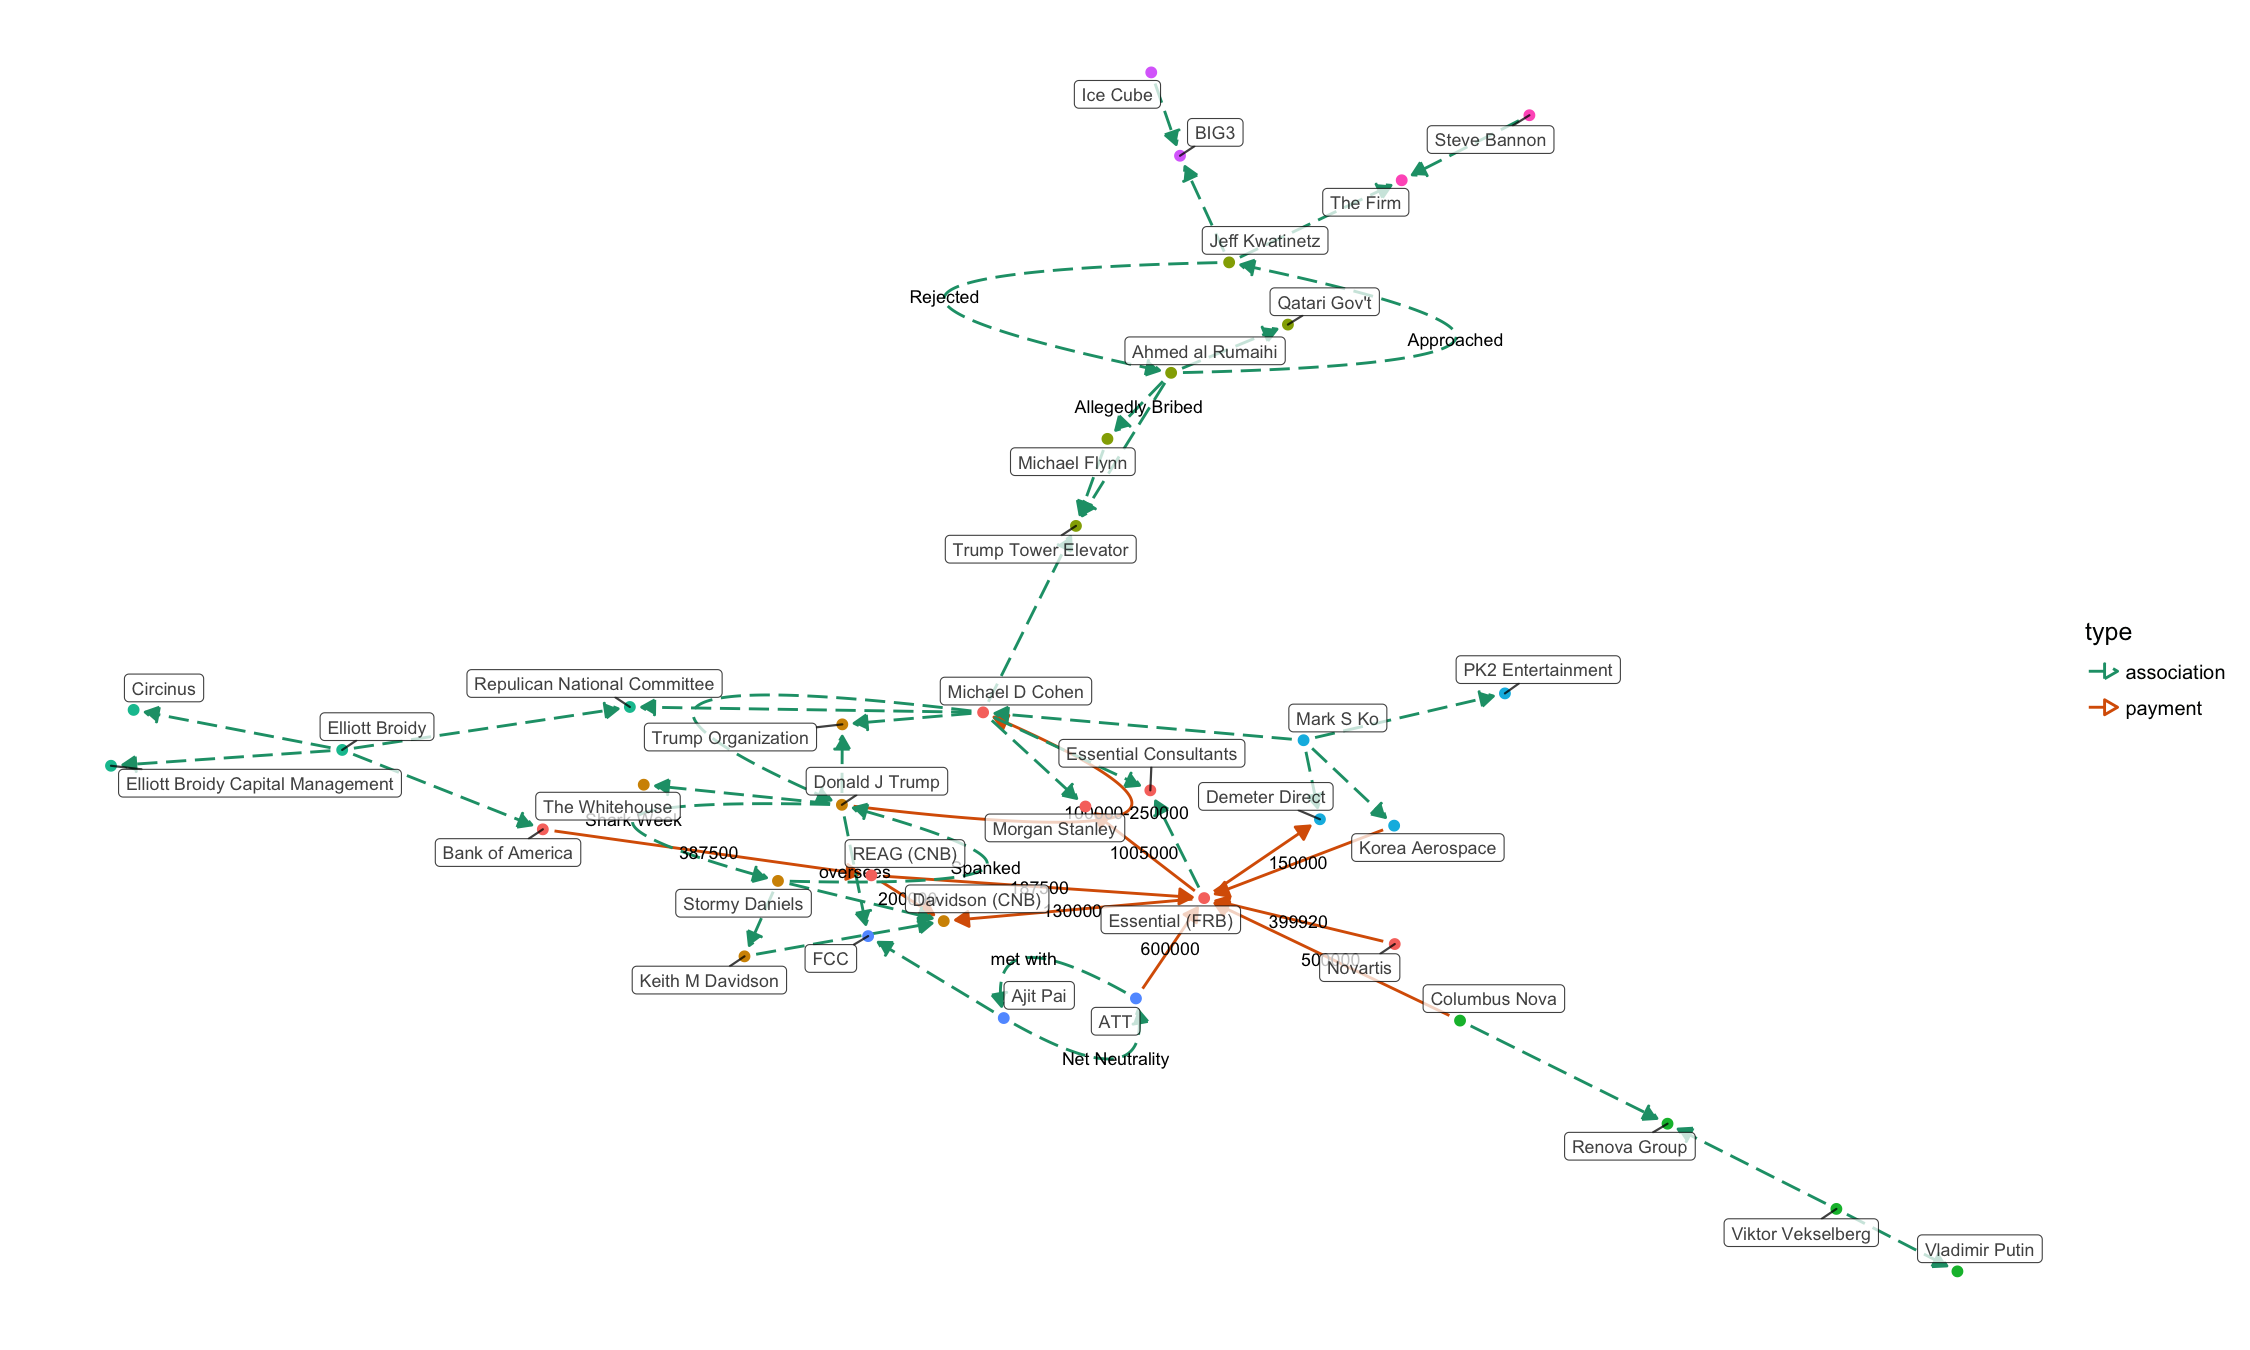
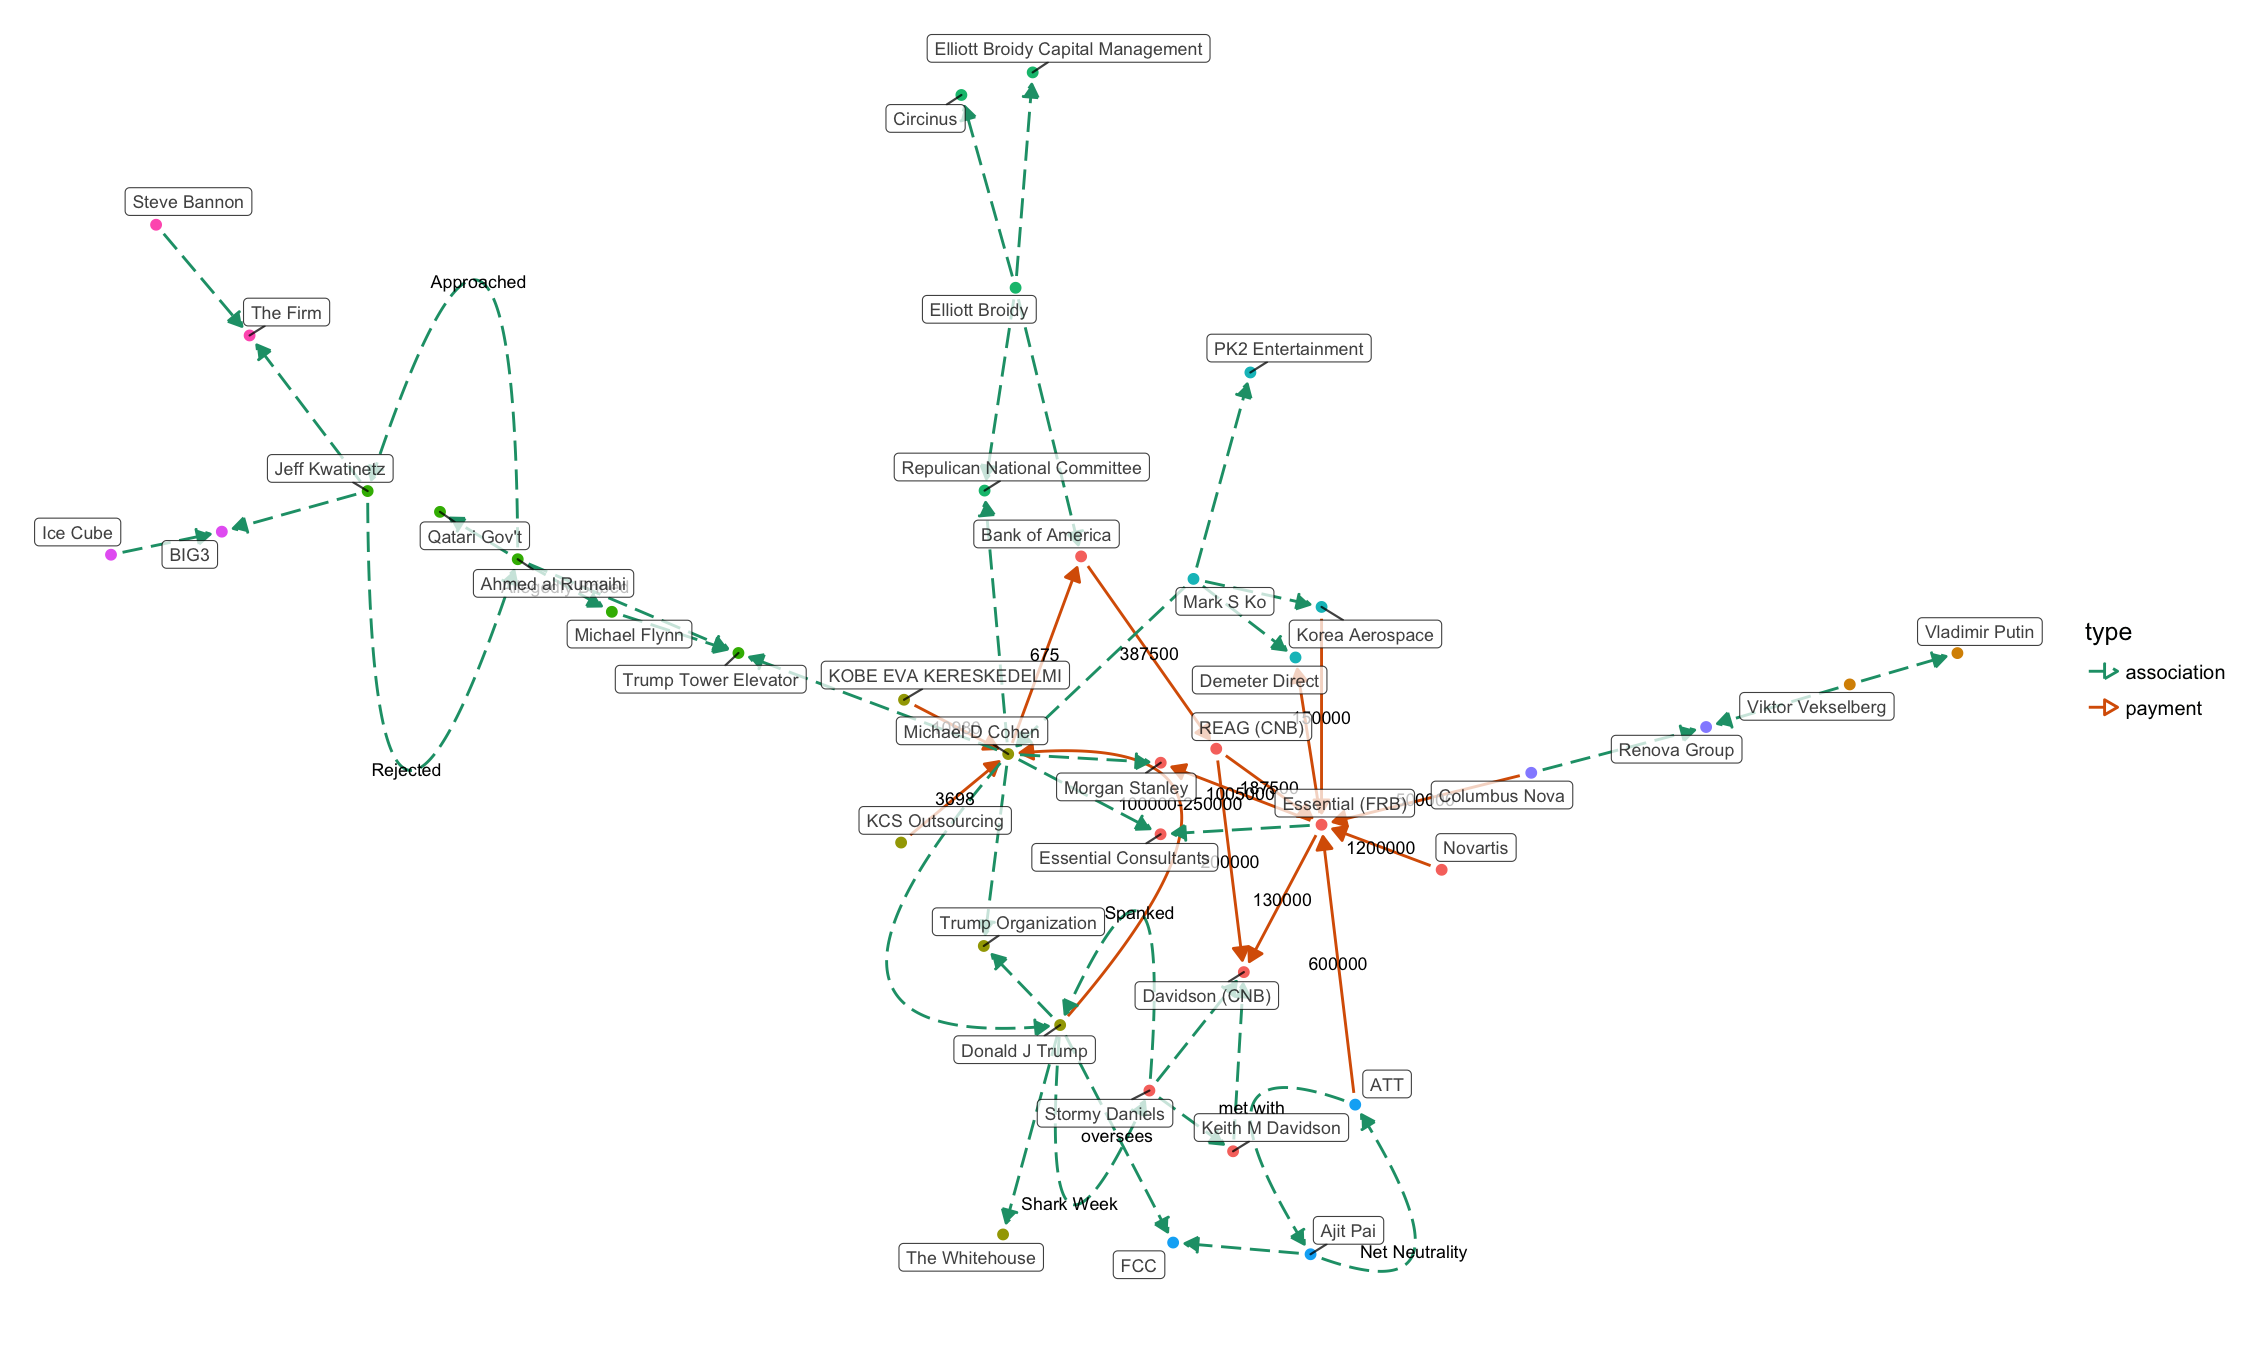
updates

diff --git a/docs/tangled-d3.html b/docs/tangled-d3.html
@@ -1143,11 +1143,11 @@ return function(){for(var n=0,e=0;e<t;++e)n+=Math.random();return n}},um=functio
 </head>
 <body style="background-color: white;">
 <div id="htmlwidget_container">
-<div id="htmlwidget-45b0b407a620fd88c031" class="forceNetwork html-widget" style="width:960px;height:500px;">
+<div id="htmlwidget-202fa6c99321113a6d7c" class="forceNetwork html-widget" style="width:960px;height:500px;">
 
 </div>
 </div>
-<script type="application/json" data-for="htmlwidget-45b0b407a620fd88c031">{"x":{"links":{"source":[0,1,2,3,4,4,4,5,6,7,7,4,8,2,9,8,10,11,11,9,12,12,12,12,8,3,3,11,8,8,13,13,13,13,3,8,14,15,15,16,17,16,16,18,15,15,19,3,19,0],"target":[4,7,4,8,20,21,22,4,4,20,4,23,23,24,24,3,20,20,10,25,26,27,28,1,22,29,11,3,30,26,21,31,8,5,30,32,32,32,16,15,33,34,33,34,35,14,0,36,36,19],"colour":["red","red","red","red","red","red","red","red","red","red","red","blue","blue","blue","blue","blue","blue","blue","blue","blue","blue","blue","blue","blue","blue","blue","blue","blue","blue","blue","blue","blue","blue","blue","blue","blue","blue","blue","blue","blue","blue","blue","blue","blue","blue","blue","blue","blue","blue","blue"]},"nodes":{"name":["ATT","Bank of America","Columbus Nova","Donald J Trump","Essential (FRB)","Korea Aerospace","Novartis","REAG (CNB)","Michael D Cohen","Viktor Vekselberg","Keith M Davidson","Stormy Daniels","Elliott Broidy","Mark S Ko","Michael Flynn","Ahmed al Rumaihi","Jeff Kwatinetz","Ice Cube","Steve Bannon","Ajit Pai","Davidson (CNB)","Demeter Direct","Morgan Stanley","Essential Consultants","Renova Group","Vladimir Putin","Repulican National Committee","Elliott Broidy Capital Management","Circinus","The Whitehouse","Trump Organization","PK2 Entertainment","Trump Tower Elevator","BIG3","The Firm","Qatari Gov't","FCC"],"group":["7","1","4","2","1","6","1","1","1","4","2","2","5","6","3","3","3","8","9","7","2","6","1","1","4","4","5","5","5","2","2","6","3","8","9","3","7"]},"options":{"NodeID":"name","Group":"group","colourScale":"d3.scaleOrdinal(d3.schemeCategory20);","fontSize":20,"fontFamily":"serif","clickTextSize":50,"linkDistance":50,"linkWidth":"function(d) { return Math.sqrt(d.value); }","charge":-100,"opacity":1,"zoom":false,"legend":false,"arrows":false,"nodesize":false,"radiusCalculation":" Math.sqrt(d.nodesize)+6","bounded":false,"opacityNoHover":1,"clickAction":null}},"evals":[],"jsHooks":[]}</script>
-<script type="application/htmlwidget-sizing" data-for="htmlwidget-45b0b407a620fd88c031">{"viewer":{"width":450,"height":350,"padding":10,"fill":true},"browser":{"width":960,"height":500,"padding":10,"fill":true}}</script>
+<script type="application/json" data-for="htmlwidget-202fa6c99321113a6d7c">{"x":{"links":{"source":[0,1,2,3,4,4,4,5,6,7,8,9,10,10,4,8,2,11,8,12,13,13,11,14,14,14,14,8,3,3,13,8,8,15,15,15,15,3,8,16,17,17,18,19,18,18,20,17,17,21,3,21,0],"target":[4,10,4,8,22,23,24,8,8,4,1,4,22,4,25,25,26,26,3,22,22,12,27,28,29,30,1,24,31,13,3,32,28,23,33,8,7,32,34,34,34,18,17,35,36,35,36,37,16,0,38,38,21],"colour":["red","red","red","red","red","red","red","red","red","red","red","red","red","red","blue","blue","blue","blue","blue","blue","blue","blue","blue","blue","blue","blue","blue","blue","blue","blue","blue","blue","blue","blue","blue","blue","blue","blue","blue","blue","blue","blue","blue","blue","blue","blue","blue","blue","blue","blue","blue","blue","blue"]},"nodes":{"name":["ATT","Bank of America","Columbus Nova","Donald J Trump","Essential (FRB)","KCS Outsourcing","KOBE EVA KERESKEDELMI","Korea Aerospace","Michael D Cohen","Novartis","REAG (CNB)","Viktor Vekselberg","Keith M Davidson","Stormy Daniels","Elliott Broidy","Mark S Ko","Michael Flynn","Ahmed al Rumaihi","Jeff Kwatinetz","Ice Cube","Steve Bannon","Ajit Pai","Davidson (CNB)","Demeter Direct","Morgan Stanley","Essential Consultants","Renova Group","Vladimir Putin","Repulican National Committee","Elliott Broidy Capital Management","Circinus","The Whitehouse","Trump Organization","PK2 Entertainment","Trump Tower Elevator","BIG3","The Firm","Qatari Gov't","FCC"],"group":["6","1","7","2","1","2","2","5","2","1","1","10","1","1","4","5","3","3","3","8","9","6","1","5","1","1","7","10","4","4","4","2","2","5","3","8","9","3","6"]},"options":{"NodeID":"name","Group":"group","colourScale":"d3.scaleOrdinal(d3.schemeCategory20);","fontSize":20,"fontFamily":"serif","clickTextSize":50,"linkDistance":50,"linkWidth":"function(d) { return Math.sqrt(d.value); }","charge":-100,"opacity":1,"zoom":false,"legend":false,"arrows":false,"nodesize":false,"radiusCalculation":" Math.sqrt(d.nodesize)+6","bounded":false,"opacityNoHover":1,"clickAction":null}},"evals":[],"jsHooks":[]}</script>
+<script type="application/htmlwidget-sizing" data-for="htmlwidget-202fa6c99321113a6d7c">{"viewer":{"width":450,"height":350,"padding":10,"fill":true},"browser":{"width":960,"height":500,"padding":10,"fill":true}}</script>
 </body>
 </html>
